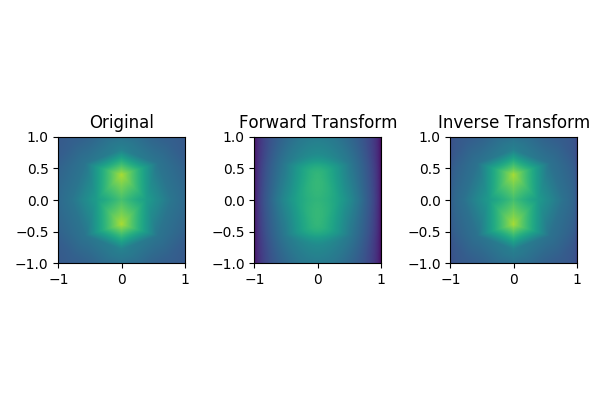
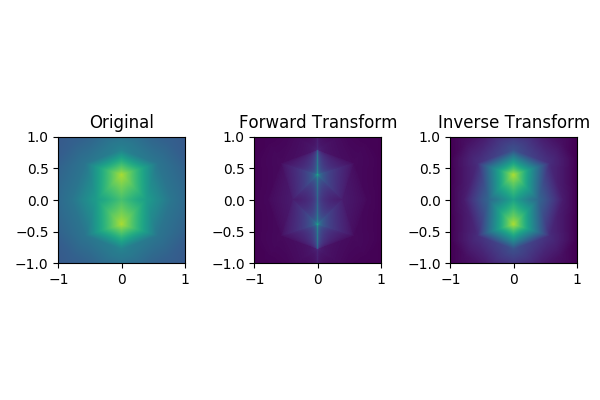
messing with parameters

Changed region(s): [[0.42, 0.33, 0.66, 0.66], [0.75, 0.33, 0.96, 0.66]]

diff --git a/geco/abeltransform.py b/geco/abeltransform.py
@@ -1,6 +1,8 @@
 
 '''
 Perform forward abel transform on RHO data
+Called in vpsolver.py
+outputs image of the RHO_array and forward and inverse abel transformations
 '''
 import abel
 import numpy as np
@@ -9,7 +11,7 @@ import matplotlib.pyplot as plt
 def forward_abel_transform(RHO):	
     #HOW DO WE OBTAIN appropriate r_max, z_max VALUES?
     r_max = 1
-    res = 1000
+    res = 500
     rvals = np.linspace(0,r_max,res)
     
     z_max = 1
@@ -43,8 +45,10 @@ def forward_abel_transform(RHO):
 	
 	
 	#Using 'hansenlaw' is much faster than 'direct' without cython implementation
-    forward_abel = abel.Transform(RHO_array, direction='forward', method='hansenlaw').transform
-    inverse_abel = abel.Transform(forward_abel, direction='inverse', method='hansenlaw').transform
+    #forward_abel = abel.Transform(RHO_array, direction='forward', method='hansenlaw').transform
+    #inverse_abel = abel.Transform(forward_abel, direction='inverse', method='hansenlaw').transform
+    forward_abel = abel.Transform(RHO_array, direction='inverse', method='hansenlaw').transform
+    inverse_abel = abel.Transform(forward_abel, direction='forward', method='hansenlaw').transform
     fig, axs = plt.subplots(1, 3, figsize=(6, 4))
 
 	#Output saved in "demo/abel_out" directory
